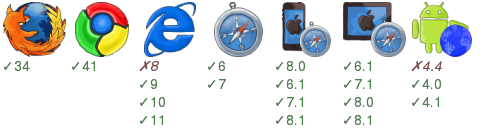
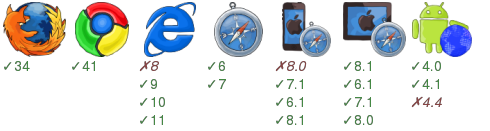
Auto commit smoke test results for fbe22e2cf1b7d3f884cb8d52a422943e735ec133 [ci skip]

diff --git a/examples/00hello/badge.html b/examples/00hello/badge.html
@@ -29,20 +29,20 @@ div{vertical-align:top;overflow:hidden;display:inline-block;width:92px;padding:4
 <p>&#x2713;7</p>
 </div><div>
 <img src="/home/travis/build/zordius/fluxex/examples/00hello/node_modules/badge-render/browser-badge/static/iphone.png" />
-<p>&#x2713;8.0</p>
-<p>&#x2713;6.1</p>
+<i>&#x2717;8.0</i>
 <p>&#x2713;7.1</p>
+<p>&#x2713;6.1</p>
 <p>&#x2713;8.1</p>
 </div><div>
 <img src="/home/travis/build/zordius/fluxex/examples/00hello/node_modules/badge-render/browser-badge/static/ipad.png" />
+<p>&#x2713;8.1</p>
 <p>&#x2713;6.1</p>
 <p>&#x2713;7.1</p>
 <p>&#x2713;8.0</p>
-<p>&#x2713;8.1</p>
 </div><div>
 <img src="/home/travis/build/zordius/fluxex/examples/00hello/node_modules/badge-render/browser-badge/static/android-browser.png" />
-<i>&#x2717;4.4</i>
 <p>&#x2713;4.0</p>
 <p>&#x2713;4.1</p>
+<i>&#x2717;4.4</i>
 </div></body>
 </html>
